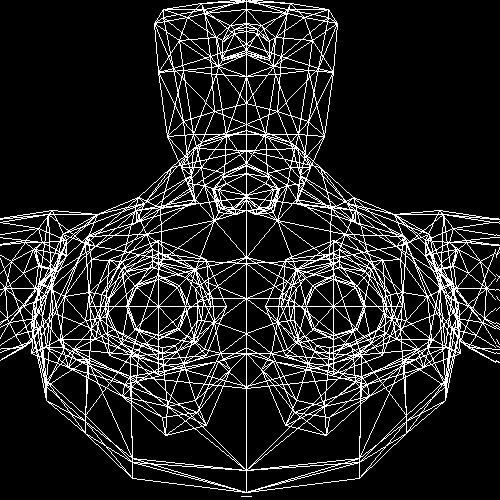
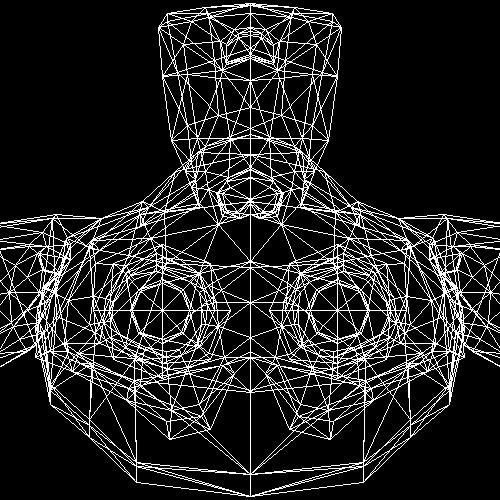
there was nothing wrong

Changed region(s): [[0.0, 0.0, 1.0, 1.0], [0.54, 0.87, 0.57, 0.9]]

diff --git a/main.cpp b/main.cpp
@@ -44,12 +44,12 @@ int main(int argc, char** argv) {
         int width = 500, height = 500;
         TGAImage image(width, height, TGAImage::RGB);
         Model monke("./suzanne.obj");
-        Vec3 camera{0, 0, 500};
+        Vec3 camera{0, 0, -1};
         for (int i=0; i < monke.nfaces(); i++) {
                 std::vector<int> face = monke.face(i);
                 // deciding if it should be drawn or not
                 Vec3 normal = (monke.vert(face[1]) - monke.vert(face[0])) ^ (monke.vert(face[2]) - monke.vert(face[0]));
-                if ((monke.vert(face[0])-camera)*normal > 0) continue;
+                if (camera*normal < 0) continue;
                 for (int j=0; j < 3; j++){
                         Vec3 v0 = monke.vert(face[j]);
                         Vec3 v1 = monke.vert(face[(j+1)%3]);
